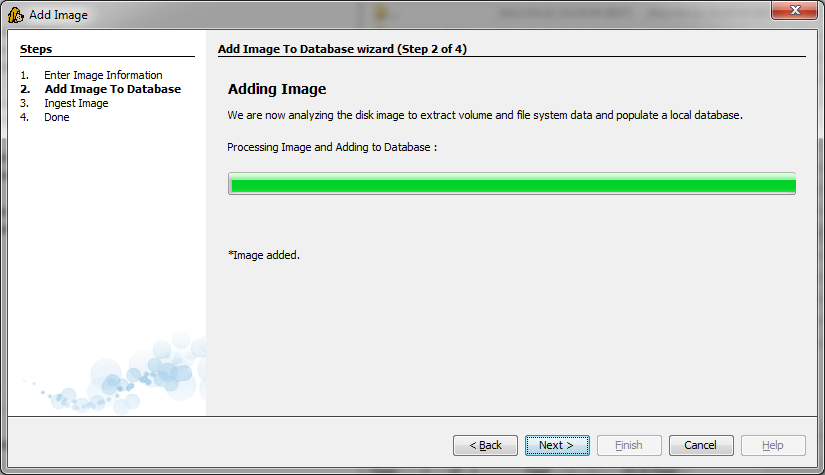
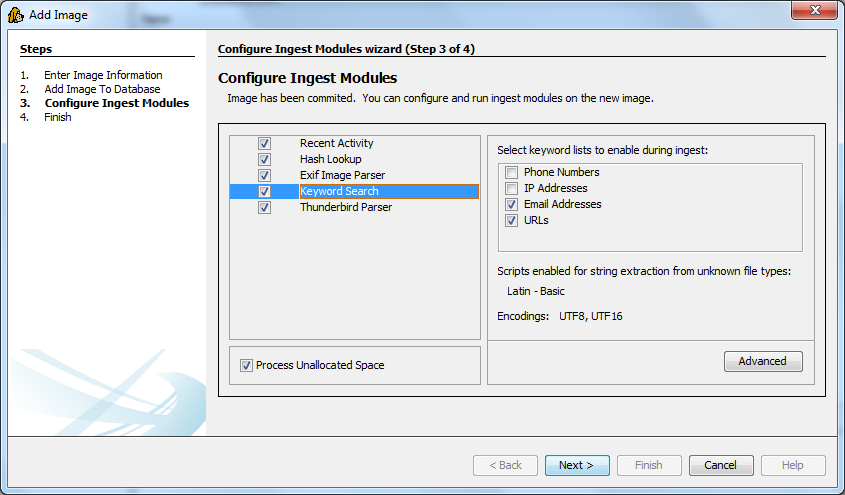
Update JavaHelp with new add image wizard information

Changed region(s): [[0.0, 0.0, 1.0, 1.0], [0.2424, 0.1474, 0.7879, 0.2063]]

diff --git a/Core/src/org/sleuthkit/autopsy/casemodule/docs/addImage.html b/Core/src/org/sleuthkit/autopsy/casemodule/docs/addImage.html
@@ -18,24 +18,26 @@
             <li>
                 The first panel will ask you to browse for the image on your machine.
                 You will also need to specify the timezone that the disk image came from so that the dates and times can be properly displayed and converted.
+                As soon as you click 'Next >', Autopsy will begin analyzing the disk image and populating the database in the background.
                 <br />
                 <img src="AddImageWizard1_Help.png" alt="Add Image Wizard Panel 1 Help" />
             </li>
             <li>
-                The second panel is when Autopsy is analyzing the disk image and populating the database with basic information.
-                This can take a few minutes for large images.
+                The second panel allows you to choose which ingest modules to run on the image.
+                Refer to the <a href="nbdocs:/org/sleuthkit/autopsy/ingest/docs/ingest-about.html">Image Ingest</a> part of the help guide for more details.
                 <br />
-                <img src="AddImageWizard2_Help.png" alt="Add Image Wizard Panel 2 Help" />
+                <img src="AddImageWizard2_Help.png" alt="Add Image Wizard Panel 3 Help" />
             </li>
             <li>
-                The third panel allows you to choose which ingest modules to run on the image.
-                Refer to the <a href="nbdocs:/org/sleuthkit/autopsy/ingest/docs/ingest-about.html">Image Ingest</a>part of the help guide for more details.
+                The third panel provides a progress bar and information about the image Autopsy is currently processing.
+                If small enough, the image may have already finished processing, allowing you to continue past this panel.
+                However, it may be necessary to wait for a short time while the database is populated.
                 <br />
-			    <img src="AddImageWizard3_Help.png" alt="Add Image Wizard Panel 3 Help" />
+                <img src="AddImageWizard3_Help.png" alt="Add Image Wizard Panel 2 Help" />
             </li>
  		    <li>
-                Once you select the ingest modules that you want to use, they will run in the background.
-                You can choose to add another image or exit the Add Image wizard.
+                Once the image finishes adding, the ingest modules you selected will automatically run in the background.
+                If the image is processed before you select ingest modules, Autopsy will wait until you have done so.
             </li> 
         </ul>
         </p>
